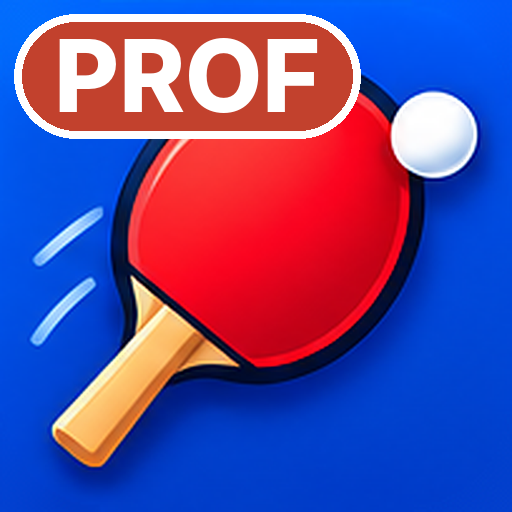
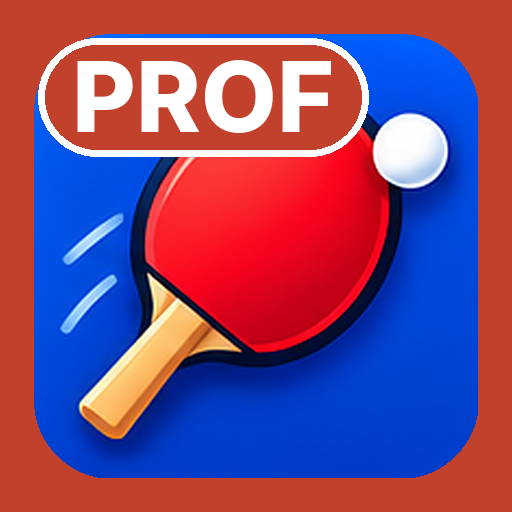
Icônes élève / prof : cadre de couleur (vert élève, rouge prof) autour de l'icône
Claude-Session: https://claude.ai/code/session_01UuASiQCvSrQnQNuK24r3AJ

diff --git a/sw.js b/sw.js
@@ -1,6 +1,6 @@
 /* Hors ligne : l'outil est gardé sur l'iPad après la 1re ouverture avec internet.
    Après une modification, augmenter VERSION (ex. ttp-v3 → ttp-v3). */
-const VERSION='ttp-v9';
+const VERSION='ttp-v10';
 const FICHIERS=['./','index.html','prof.js','prof-plus.js','prof-demo.js','prof-poules.js','prof-cycle.js','donnees.js','logique.js','scan.js','jsqr.js','jszip.js','xlsx.js','qrcode.js','manifest.webmanifest',
   'icon-32.png','icon-180.png','icon-192.png','icon-512.png','polices/archivo.woff2','polices/atkinson-400.woff2','polices/atkinson-700.woff2'];
 self.addEventListener('install',e=>{e.waitUntil(caches.open(VERSION).then(c=>c.addAll(FICHIERS)).then(()=>self.skipWaiting()))});
